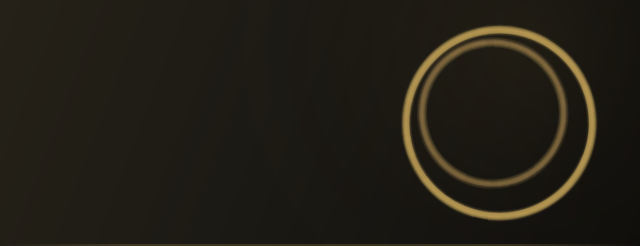
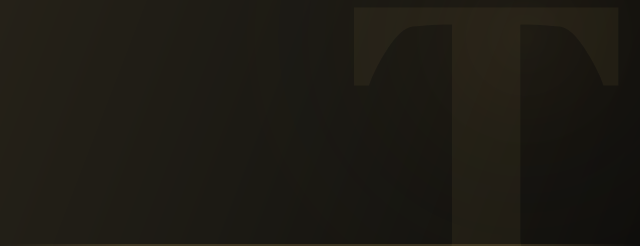
Revert strip watermark to gold T serif lettermark

Changed region(s): [[0.625, 0.0854, 0.9375, 0.9106]]

diff --git a/scripts/generate-pass-images.js b/scripts/generate-pass-images.js
@@ -81,27 +81,8 @@ save("[email redacted]", makeLogo(320, 100));
 
 // ── Strip image (banner behind patient name — Option C layout) ────────────────
 // Dimensions: Apple storeCard strip: 320×123 @1x  →  640×246 @2x
-// Design: deep charcoal gradient + translucent gold brushstroke circle watermark.
+// Design: deep charcoal gradient + translucent gold "T" watermark (serif, right-aligned).
 // The patient name is rendered by iOS Wallet as a text overlay — we only paint the bg.
-function makeBrushstrokeCircle(cx, centerX, centerY, radius, color, alpha) {
-  const strokes = 22;
-  for (let i = 0; i < strokes; i++) {
-    const angleOffset = (Math.random() - 0.5) * 0.18;
-    const radiusJitter = radius + (Math.random() - 0.5) * (radius * 0.045);
-    const startAngle   = -0.12 + angleOffset + (i / strokes) * Math.PI * 2;
-    const endAngle     = startAngle + Math.PI * (1.85 + Math.random() * 0.12);
-    const lineWidth    = 3 + Math.random() * 7;
-
-    cx.beginPath();
-    cx.arc(centerX, centerY, radiusJitter, startAngle, endAngle);
-    cx.lineWidth   = lineWidth;
-    cx.strokeStyle = color;
-    cx.globalAlpha = alpha * (0.35 + Math.random() * 0.65);
-    cx.stroke();
-  }
-  cx.globalAlpha = 1;
-}
-
 function makeStrip(w, h) {
   const c  = createCanvas(w, h);
   const cx = c.getContext("2d");
@@ -115,20 +96,21 @@ function makeStrip(w, h) {
   cx.fillRect(0, 0, w, h);
 
   // Subtle radial glow top-right for depth
-  const glow = cx.createRadialGradient(w * 0.82, h * 0.2, 0, w * 0.82, h * 0.2, w * 0.55);
-  glow.addColorStop(0, "rgba(201,165,90,0.07)");
+  const glow = cx.createRadialGradient(w * 0.82, h * 0.15, 0, w * 0.82, h * 0.15, w * 0.55);
+  glow.addColorStop(0, "rgba(201,165,90,0.06)");
   glow.addColorStop(1, "rgba(0,0,0,0)");
   cx.fillStyle = glow;
   cx.fillRect(0, 0, w, h);
 
-  // Primary brushstroke circle — large, centered right, very translucent gold
-  const circleX = w * 0.78;
-  const circleY = h * 0.5;
-  const circleR = h * 0.38;
-  makeBrushstrokeCircle(cx, circleX, circleY, circleR, GOLD, 0.13);
-
-  // Second smaller echo circle for layered depth
-  makeBrushstrokeCircle(cx, circleX - w * 0.01, circleY - h * 0.04, circleR * 0.76, GOLD, 0.055);
+  // "T" watermark — large serif, translucent gold, pushed to the right
+  const fontSize = h * 1.6;
+  cx.font        = `bold ${fontSize}px Georgia, serif`;
+  cx.textAlign   = "right";
+  cx.textBaseline = "middle";
+  cx.fillStyle   = GOLD;
+  cx.globalAlpha = 0.07;
+  cx.fillText("T", w * 0.97, h * 0.58);
+  cx.globalAlpha = 1;
 
   // Thin fading gold line along the bottom edge
   cx.beginPath();
@@ -141,7 +123,6 @@ function makeStrip(w, h) {
   lineGrad.addColorStop(1,   "rgba(201,165,90,0)");
   cx.strokeStyle = lineGrad;
   cx.lineWidth   = 1;
-  cx.globalAlpha = 1;
   cx.stroke();
 
   return c;